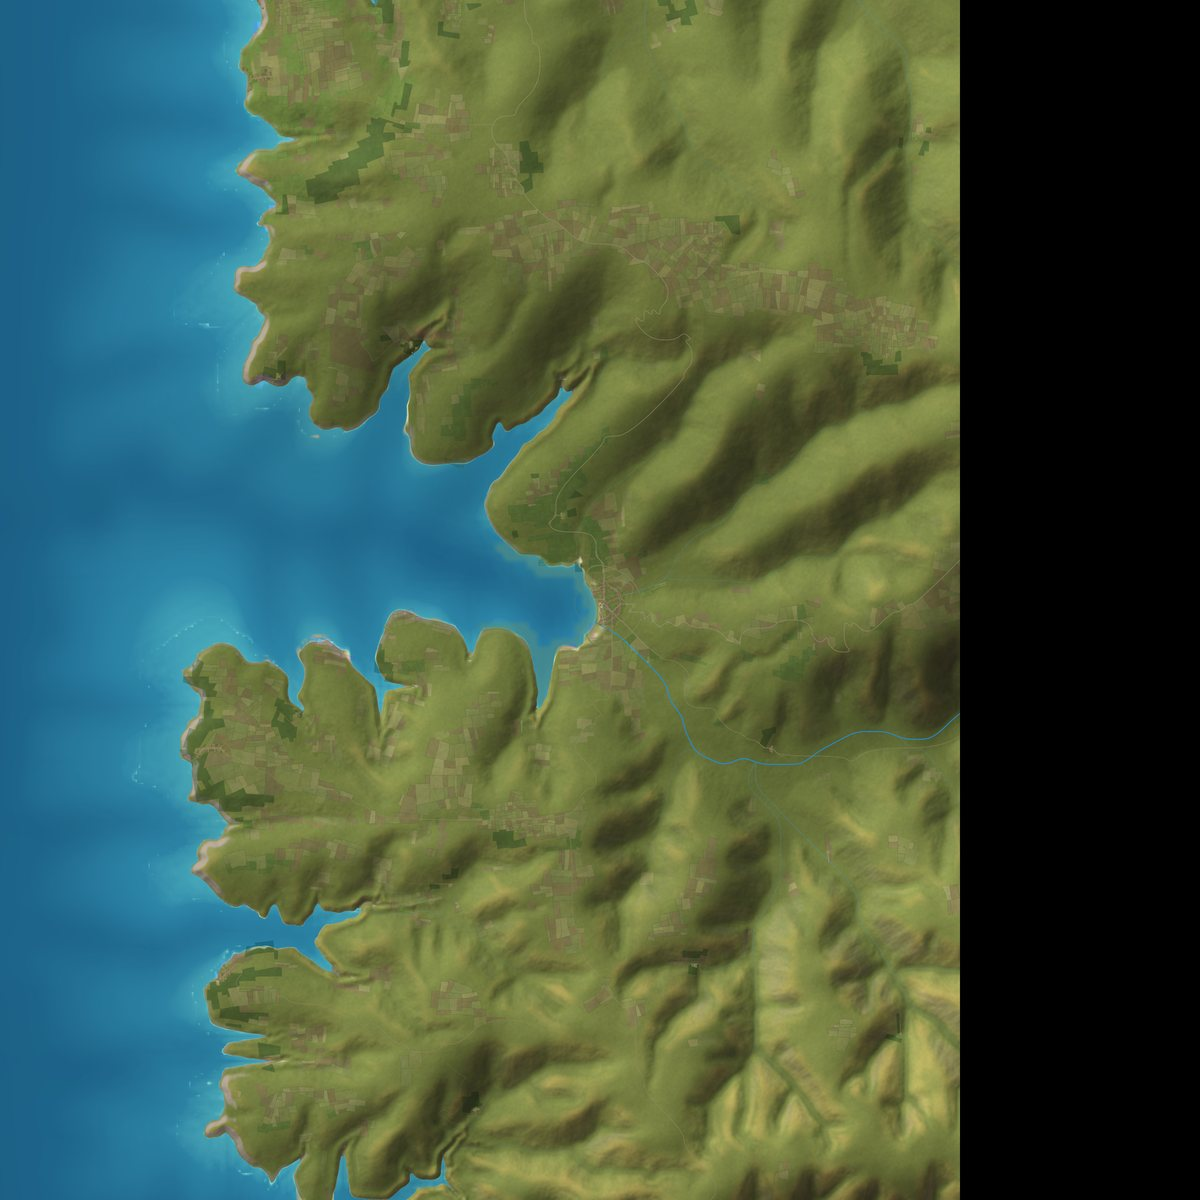
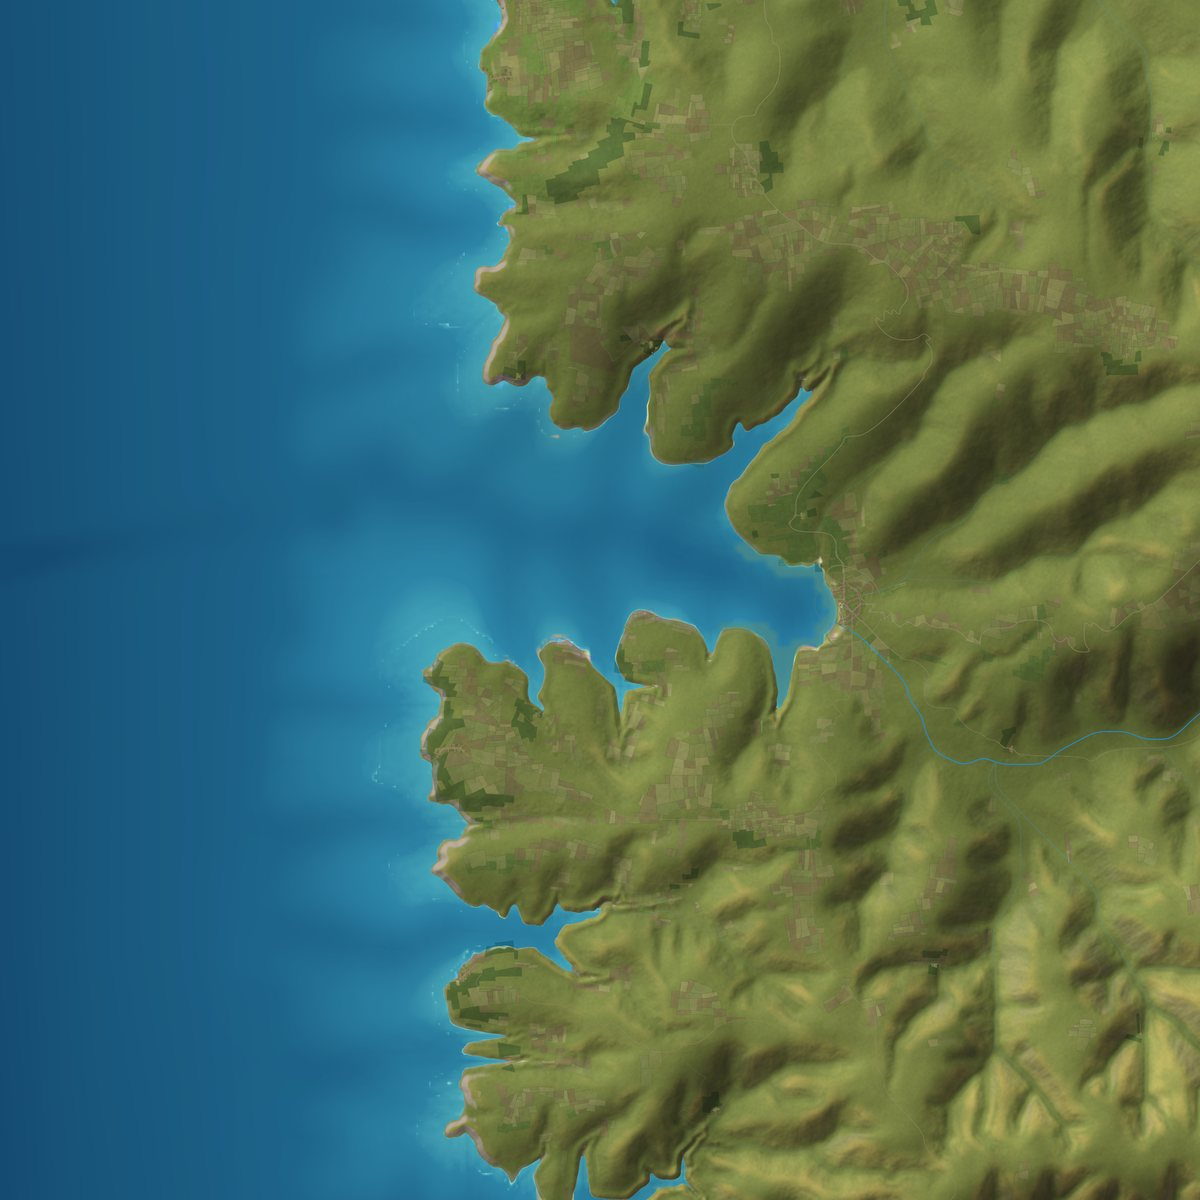
fix(site): layouts that hold at every width
Phones get a two-row nav (brand and download, then scrolling links), a
hero command that wraps between flags, a smaller continent and tighter
section spacing. The descent cards, gallery and principles use fixed
4/2/1 column steps, so the two large tiles always pack without orphans.
Copy buttons sit beside code instead of over it, the tutorial stacks
before its code gets cramped, and the area image loses its black edge.

[skip ci]

diff --git a/site/styles.css b/site/styles.css
@@ -84,6 +84,18 @@ code, pre { font-family: var(--mono); }
 .nav-links a { color: var(--text-2); text-decoration: none; padding: 10px 0; }
 .nav-links a:hover { color: var(--parchment); }
 .nav .btn { font-size: 15px; padding: 11px 18px; }
+@media (max-width: 640px) {
+  .nav { gap: 4px 16px; padding-block: 12px 4px; }
+  .nav .brand img { height: 40px; }
+  .nav .brand { order: 1; }
+  .nav .btn { order: 2; padding: 9px 14px; }
+  .nav-links {
+    order: 3; flex: 1 0 100%; flex-wrap: nowrap; justify-content: space-between;
+    gap: 16px; overflow-x: auto; scrollbar-width: none;
+  }
+  .nav-links::-webkit-scrollbar { display: none; }
+  .nav-links a { white-space: nowrap; padding: 12px 0; }
+}
 
 /* Hero */
 .hero { position: relative; overflow: hidden; }
@@ -104,15 +116,17 @@ code, pre { font-family: var(--mono); }
   display: flex; align-items: center; gap: 12px; max-width: 100%;
   background: var(--panel); border: 1px solid var(--line-2); border-radius: 8px;
   padding: 14px 18px; font: 14px var(--mono); color: #d8d1bf;
-  overflow-x: auto; white-space: nowrap;
 }
-.prompt span:first-child { color: #6e8a7a; }
+.prompt > span:last-child { min-width: 0; }
+.prompt > span:last-child > span { white-space: nowrap; }
+.prompt span:first-child { color: #6e8a7a; align-self: flex-start; }
 .hero-figure { flex: 1 1 340px; position: relative; display: flex; justify-content: center; }
 .hero-figure img {
   width: 100%; max-width: 420px; aspect-ratio: 1 / 2.1; object-fit: cover;
   border-radius: 4px; border: 1px solid var(--frame);
   box-shadow: 0 40px 90px rgba(0, 0, 0, 0.55);
 }
+@media (max-width: 640px) { .hero-inner { gap: 40px; padding-block: 40px 64px; } .hero-figure img { max-width: 300px; } }
 .chip {
   position: absolute; bottom: 18px; left: 50%; transform: translateX(-50%);
   font: 12px var(--mono); letter-spacing: 0.08em; white-space: nowrap;
@@ -124,8 +138,10 @@ code, pre { font-family: var(--mono); }
 .descent { display: flex; flex-direction: column; gap: 48px; padding-block: 88px; }
 .descent ol {
   list-style: none; padding: 0;
-  display: grid; grid-template-columns: repeat(auto-fit, minmax(200px, 1fr)); gap: 16px;
+  display: grid; grid-template-columns: repeat(4, minmax(0, 1fr)); gap: 16px;
 }
+@media (max-width: 900px) { .descent ol { grid-template-columns: repeat(2, minmax(0, 1fr)); gap: 28px 16px; } }
+@media (max-width: 380px) { .descent ol { grid-template-columns: 1fr; } }
 .descent li { display: flex; flex-direction: column; gap: 12px; }
 .descent img, .frame {
   width: 100%; aspect-ratio: 1; object-fit: cover;
@@ -147,9 +163,11 @@ code, pre { font-family: var(--mono); }
 .filters button:hover { border-color: var(--sage); }
 .filters button[aria-pressed="true"] { background: var(--parchment); color: var(--ink); border-color: var(--parchment); }
 .gallery {
-  display: grid; grid-template-columns: repeat(auto-fill, minmax(260px, 1fr));
+  display: grid; grid-template-columns: repeat(4, minmax(0, 1fr));
   grid-auto-flow: dense; gap: 14px;
 }
+@media (max-width: 1000px) { .gallery { grid-template-columns: repeat(2, minmax(0, 1fr)); } }
+@media (max-width: 600px) { .gallery { grid-template-columns: 1fr; } }
 .shot {
   position: relative; border-radius: 4px; overflow: hidden;
   border: 1px solid var(--frame); background: var(--panel);
@@ -199,7 +217,8 @@ code, pre { font-family: var(--mono); }
 .steps strong { font-size: 18px; }
 .steps li > span:last-child { color: var(--paper-muted); font-size: 15px; }
 .steps code { font-size: 14px; }
-.principles { display: grid; grid-template-columns: repeat(auto-fit, minmax(240px, 1fr)); gap: 32px; }
+.principles { display: grid; grid-template-columns: repeat(3, minmax(0, 1fr)); gap: 32px; }
+@media (max-width: 760px) { .principles { grid-template-columns: 1fr; gap: 28px; } }
 .principles div { display: flex; flex-direction: column; gap: 8px; border-top: 2px solid var(--paper-ink); padding-top: 18px; }
 .principles strong { font-family: var(--display); font-size: 26px; font-weight: 600; }
 .principles span { color: var(--paper-muted); font-size: 15px; }
@@ -208,8 +227,9 @@ code, pre { font-family: var(--mono); }
 .tutorial { display: flex; flex-wrap: wrap; gap: 56px; padding-block: 104px; }
 .tutorial-intro { flex: 1 1 320px; min-width: 0; display: flex; flex-direction: column; gap: 16px; }
 .tutorial-intro .frame { max-width: 420px; margin-top: 12px; }
+@media (max-width: 1100px) { .tutorial-intro .frame { display: none; } }
 .tutorial-intro .note { font-size: 15px; color: var(--muted); }
-.lesson { flex: 999 1 560px; min-width: 0; list-style: none; padding: 0; display: flex; flex-direction: column; gap: 14px; counter-reset: lesson; }
+.lesson { flex: 999 1 660px; min-width: 0; list-style: none; padding: 0; display: flex; flex-direction: column; gap: 14px; counter-reset: lesson; }
 .lesson li {
   display: flex; gap: 20px; background: var(--panel);
   border: 1px solid var(--line-2); border-radius: 8px; padding: 24px;
@@ -226,14 +246,14 @@ code, pre { font-family: var(--mono); }
 .lesson strong { font-size: 18px; }
 .lesson .body > span { color: var(--muted); font-size: 15px; }
 .code {
-  position: relative; background: var(--code); border-radius: 6px;
+  display: flex; align-items: flex-start; background: var(--code); border-radius: 6px;
 }
 .code pre {
-  padding: 14px 16px; padding-right: 76px; overflow-x: auto;
+  flex: 1; min-width: 0; padding: 14px 16px; overflow-x: auto;
   font-size: 14px; color: #d8d1bf; line-height: 1.6;
 }
 .copy {
-  position: absolute; top: 8px; right: 8px; min-height: 32px;
+  flex: none; margin: 8px 8px 0 0; min-height: 32px;
   font: 500 12px var(--sans); padding: 6px 10px; border-radius: 4px; cursor: pointer;
   background: transparent; color: var(--text-2); border: 1px solid var(--ghost);
 }
@@ -258,6 +278,15 @@ code, pre { font-family: var(--mono); }
 .site-footer .brandline { display: flex; align-items: center; gap: 14px; }
 .site-footer img { height: 32px; width: auto; }
 
+@media (max-width: 640px) {
+  .descent, .under { padding-block: 64px; }
+  .showcase, .how, .tutorial { padding-block: 72px; }
+  .how { gap: 40px; }
+  .steps li { padding: 22px; }
+  .cta { padding-block: 80px; }
+  .wrap { padding-inline: 18px; }
+}
+
 /* Reveal on scroll */
 .js .reveal { opacity: 0; transform: translateY(18px); transition: opacity 0.8s ease, transform 0.8s ease; }
 .js .reveal.in { opacity: 1; transform: none; }
@@ -268,5 +297,6 @@ code, pre { font-family: var(--mono); }
 }
 
 @media (max-width: 560px) {
-  .code pre { padding: 46px 16px 14px; }
+  .lesson li { flex-direction: column; gap: 14px; padding: 20px; }
+  .code pre { font-size: 13px; }
 }

diff --git a/site/index.html b/site/index.html
@@ -55,7 +55,7 @@
           <a class="btn btn-primary" href="#tutorial">Forge your first world</a>
           <a class="btn btn-ghost" href="#showcase">Walk through one</a>
         </div>
-        <div class="prompt"><span aria-hidden="true">$</span><span>arda generate --seed 42 --micro --out worlds/w42</span></div>
+        <div class="prompt"><span aria-hidden="true">$</span><span><span>arda generate --seed 42</span> <span>--micro --out worlds/w42</span></span></div>
       </div>
       <figure class="hero-figure">
         <img src="img/continent-default.jpg" width="960" height="2027" alt="Atlas overview of a full-size generated continent: snow-capped ranges, green lowlands, roads and settlements in a deep blue sea">
